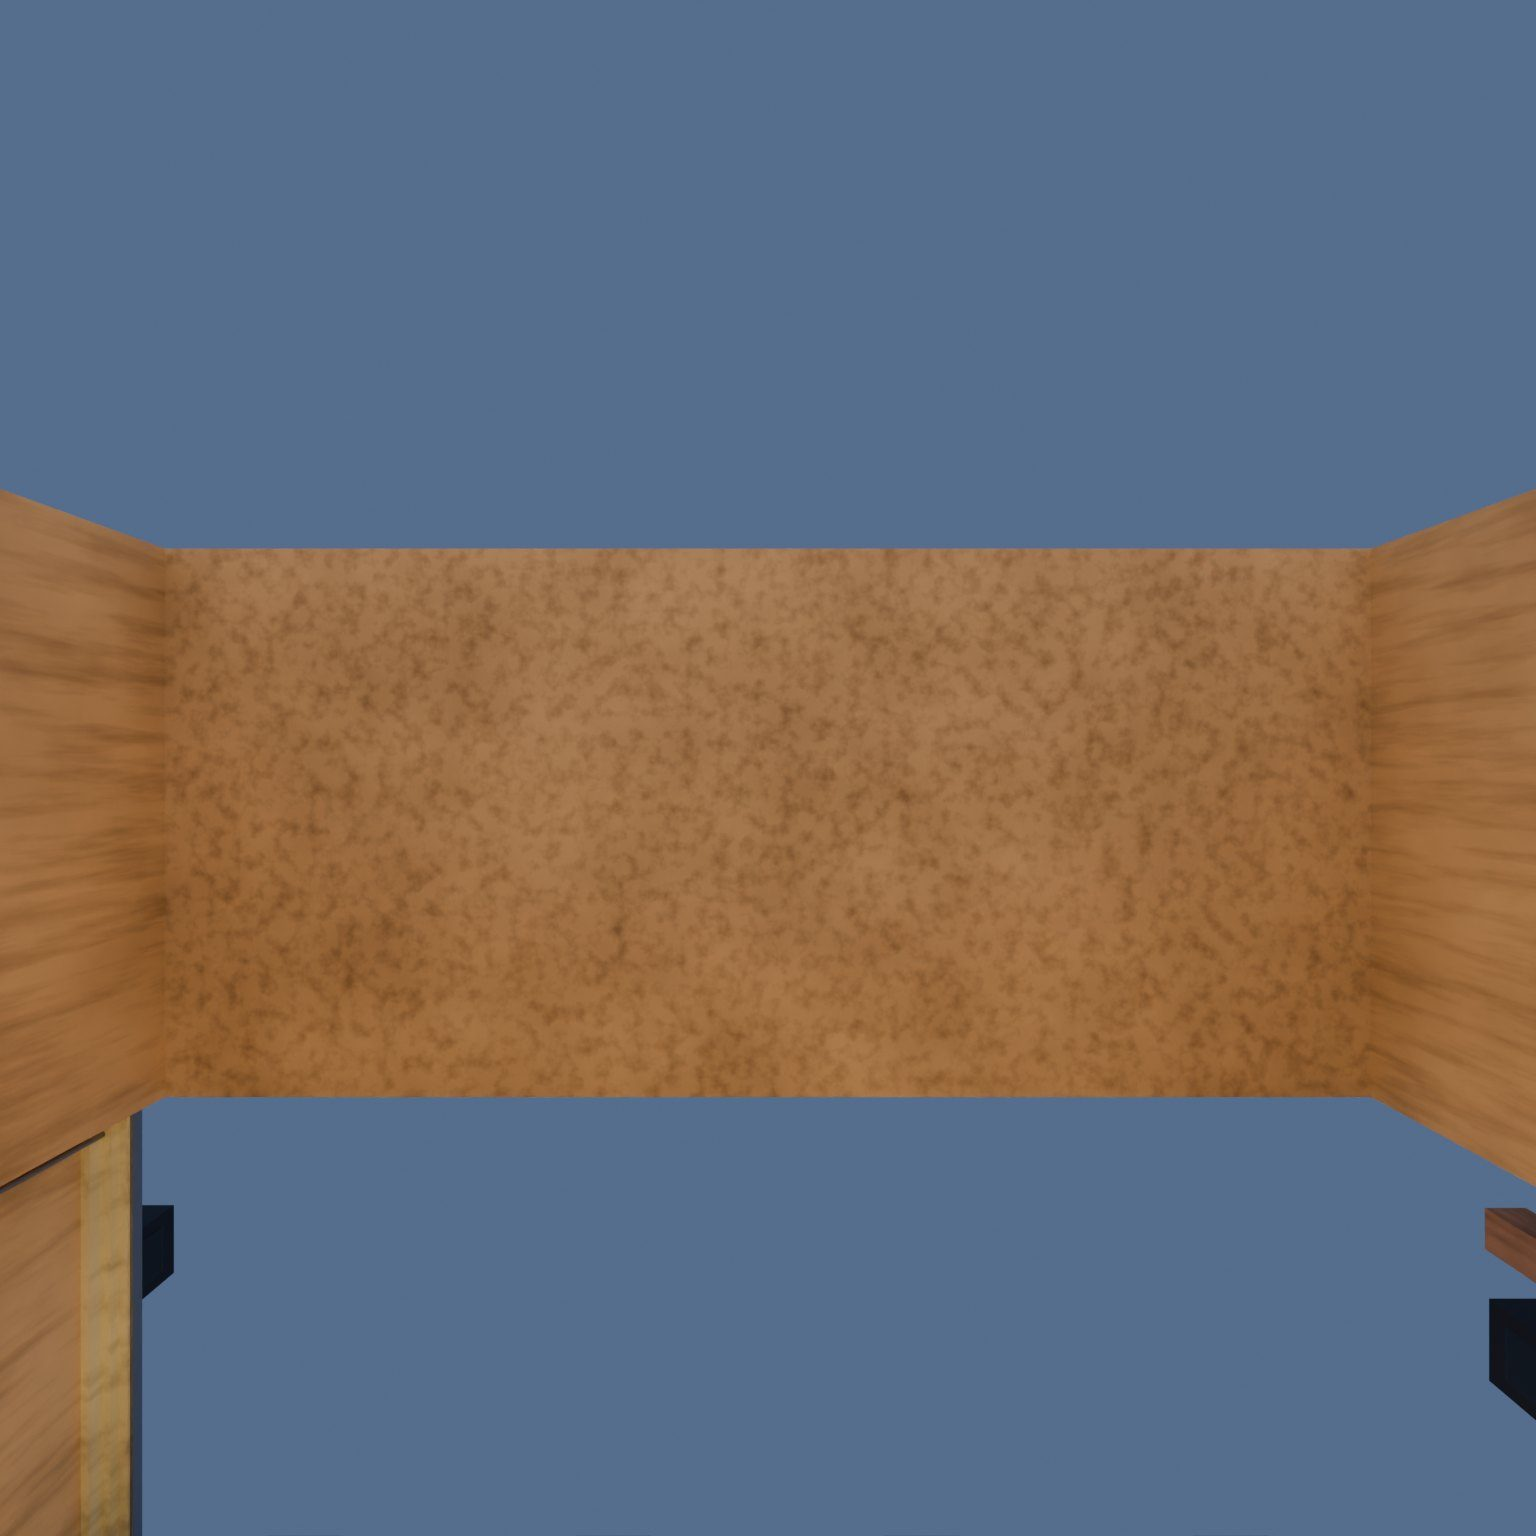
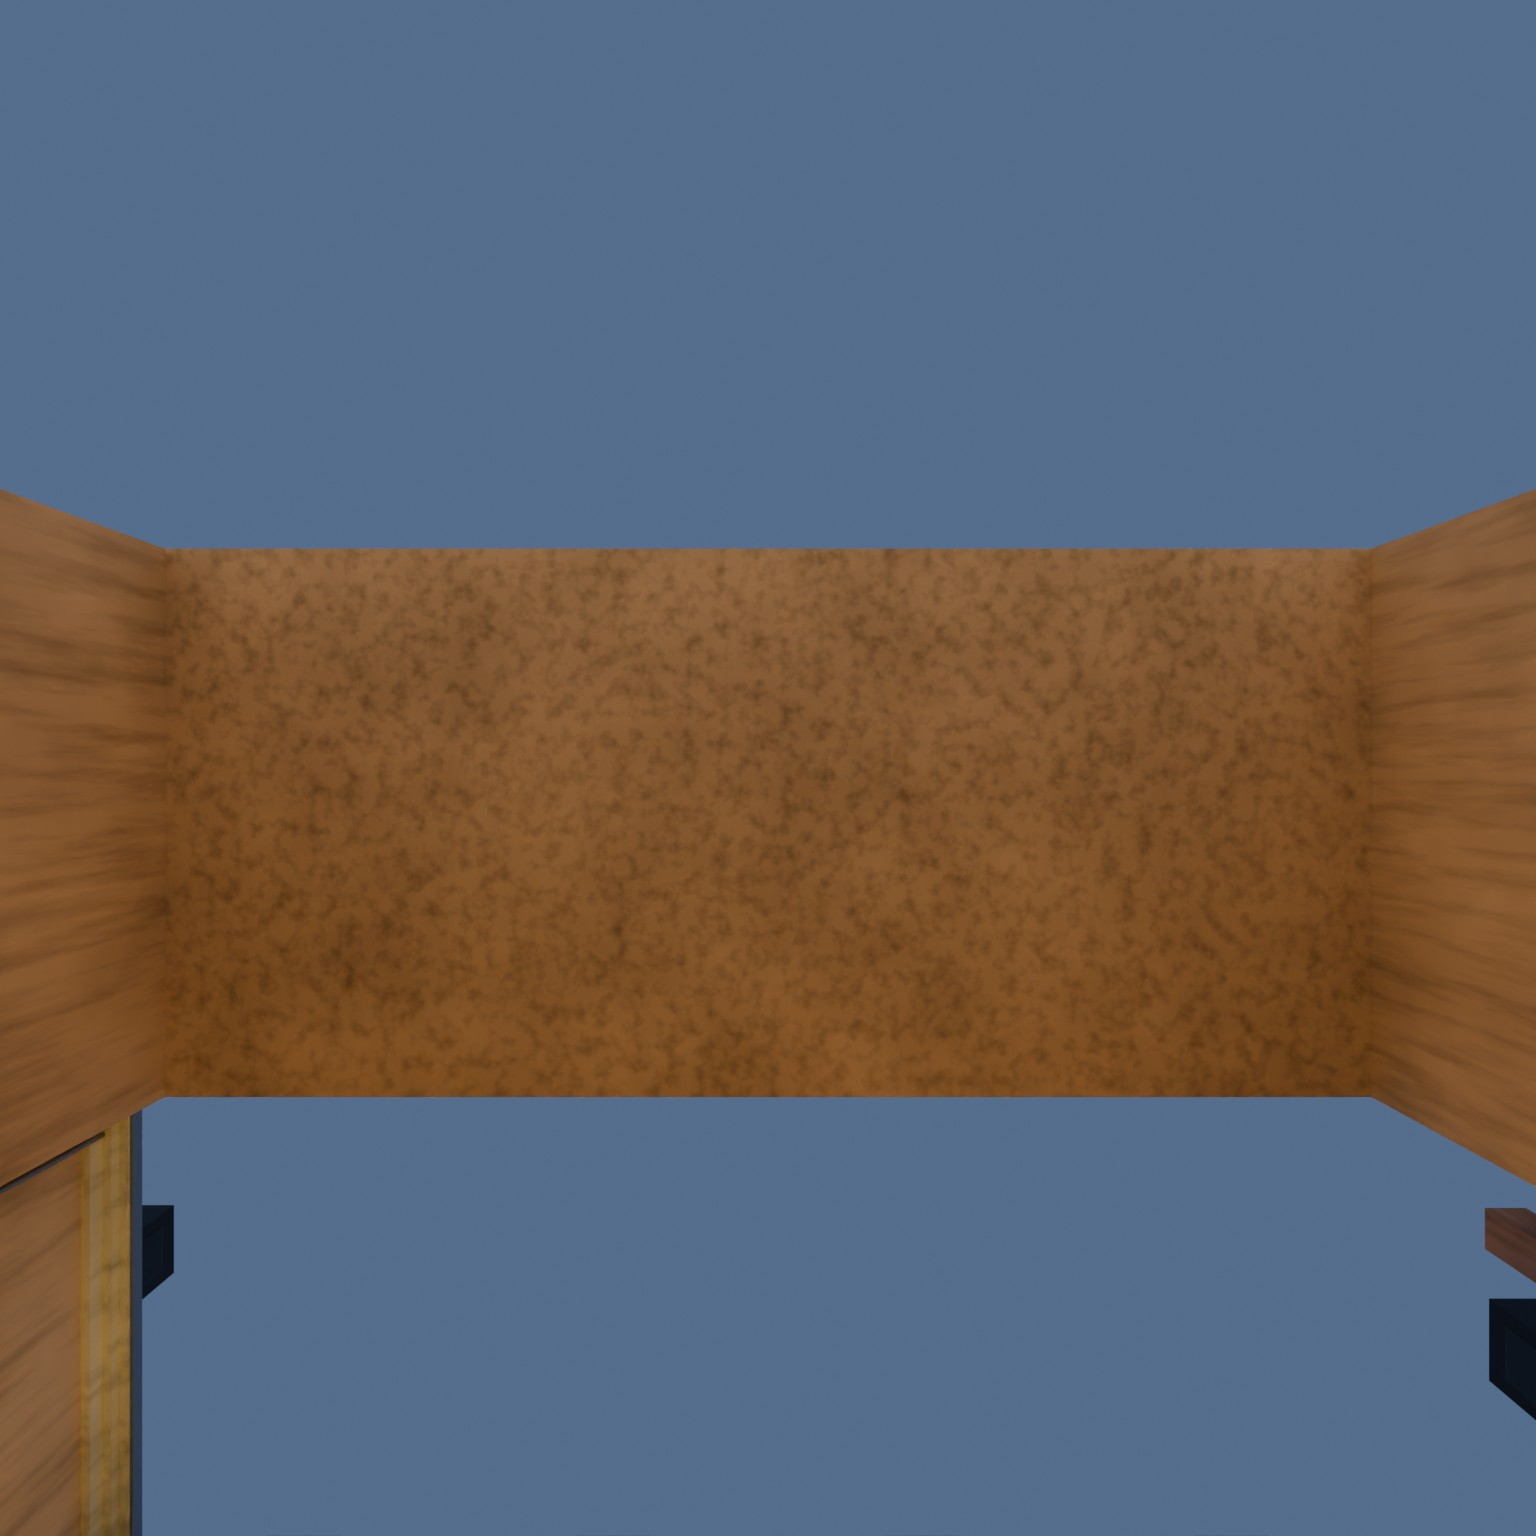
Innergården: riktiga människor i naturliga poser, krukor och rabatter, en öppen bar, och gården projiceras på sina verkliga ytor så att den får djup
Claude-Session: https://claude.ai/code/session_01ECUgMn1mwdrHwwSESPSFCN

diff --git a/public/js/rum-staden.js b/public/js/rum-staden.js
@@ -362,17 +362,34 @@ function innergardGlas(X, L, W, oldGrid) {
   for (let i = 0; i < n; i++) for (const [ya, yb] of [[W.y0, yt], [yt, W.y1]]) {
     const m = new THREE.Mesh(new THREE.PlaneGeometry(L / n - .09, yb - ya - .1), gm); m.position.set(X - .01, (ya + yb) / 2, -(i + .5) * L / n); m.rotation.y = -Math.PI / 2; m.layers.set(2); scene.add(m); }
 }
-// innergården: renderad i Blender som en kub runt rummets mitt (x 0, z −11, ögonhöjd), fem sidor à 90°. Kuben är 24 m stor,
-// så bortre huset hamnar 6 m utanför glaset och gården räcker hela vägen ut i kanterna även när man tittar snett längs glaset.
+// innergården: renderad i Blender som en kub från rummets mitt (x 0, z −11, ögonhöjd), fem sidor à 90°.
+// Bilderna läggs inte på en kub långt bort utan projiceras på gårdens verkliga ytor (marken, husväggarna runt om, himlen),
+// i samma koordinater som Blender-scenen. Då förskjuts gården rätt när man går längs glaset och den får djup i stället för att se platt ut.
 function innergard() {
-  const d = 12, C = new V3(0, 1.6, -11), B2T = ([x, y, z]) => new V3(x, z, -y); // Blenders axlar → three.js
+  const C = new V3(0, 1.6, -11), B2T = ([x, y, z]) => new V3(x, z, -y); // Blenders axlar → three.js (samma koordinater)
   const faces = { px: [[1, 0, 0], [0, 0, 1]], pz: [[0, -1, 0], [0, 0, 1]], nz: [[0, 1, 0], [0, 0, 1]], py: [[0, 0, 1], [-1, 0, 0]], ny: [[0, 0, -1], [1, 0, 0]] };
-  for (const [k, [fb, ub]] of Object.entries(faces)) {
-    const f = B2T(fb), u = B2T(ub), r = new V3().crossVectors(f, u);
-    const tex = new THREE.TextureLoader().load("film/innergard-" + k + ".jpg"); tex.encoding = THREE.sRGBEncoding; tex.anisotropy = 4;
-    const m = new THREE.Mesh(new THREE.PlaneGeometry(2 * d, 2 * d), new THREE.MeshBasicMaterial({ map: tex, fog: false, toneMapped: false }));
-    m.quaternion.setFromRotationMatrix(new THREE.Matrix4().makeBasis(r, u, f.clone().negate()));
-    m.position.copy(C).addScaledVector(f, d); m.layers.set(1); scene.add(m);
-  }
+  const uni = { C: { value: C } }, keys = Object.keys(faces);
+  keys.forEach((k, i) => {
+    const f = B2T(faces[k][0]), u = B2T(faces[k][1]);
+    const tex = new THREE.TextureLoader().load("film/innergard-" + k + ".jpg"); tex.anisotropy = 4; tex.generateMipmaps = true;
+    uni["t" + i] = { value: tex }; uni["f" + i] = { value: f }; uni["u" + i] = { value: u }; uni["r" + i] = { value: new V3().crossVectors(f, u) };
+  });
+  let decl = "", body = "";
+  keys.forEach((k, i) => {
+    decl += `uniform sampler2D t${i}; uniform vec3 f${i}, u${i}, r${i};\n`;
+    body += `{ float c = dot(d, f${i}); if (c > best) { best = c; vec2 uv = vec2(dot(d, r${i}), dot(d, u${i})) / c * .5 + .5; col = texture2D(t${i}, uv).rgb; } }\n`;
+  });
+  const mat = new THREE.ShaderMaterial({ uniforms: uni, side: THREE.DoubleSide, fog: false,
+    vertexShader: "varying vec3 vW; void main(){ vec4 w = modelMatrix * vec4(position, 1.); vW = w.xyz; gl_Position = projectionMatrix * viewMatrix * w; }",
+    fragmentShader: decl + "uniform vec3 C; varying vec3 vW; void main(){ vec3 d = normalize(vW - C); float best = -1.; vec3 col = vec3(0.);\n" + body + "gl_FragColor = vec4(pow(col, vec3(2.2)), 1.); }" });
+  // gårdens ytor i Blender-koordinater: marken z 0.08, östra husväggen x 13.5, södra y −0.5, norra y 22.5, himlen z 19
+  const X0 = 6.02, X1 = 13.5, Y0 = -0.5, Y1 = 22.5, Z0 = .08, Z1 = 19;
+  const quad = (a, b, c, d) => { const g = new THREE.BufferGeometry(); const p = [a, b, c, a, c, d].flatMap((q) => B2T(q).toArray());
+    g.setAttribute("position", new THREE.Float32BufferAttribute(p, 3)); const m = new THREE.Mesh(g, mat); m.frustumCulled = false; m.layers.set(1); scene.add(m); };
+  quad([X0, Y0, Z0], [X1, Y0, Z0], [X1, Y1, Z0], [X0, Y1, Z0]); // marken
+  quad([X1, Y0, Z0], [X1, Y0, Z1], [X1, Y1, Z1], [X1, Y1, Z0]); // bortre huset
+  quad([X0, Y0, Z0], [X0, Y0, Z1], [X1, Y0, Z1], [X1, Y0, Z0]); // södra huset
+  quad([X0, Y1, Z0], [X1, Y1, Z0], [X1, Y1, Z1], [X0, Y1, Z1]); // norra huset
+  quad([X0, Y0, Z1], [X1, Y0, Z1], [X1, Y1, Z1], [X0, Y1, Z1]); // himlen
   return () => {};
 }
